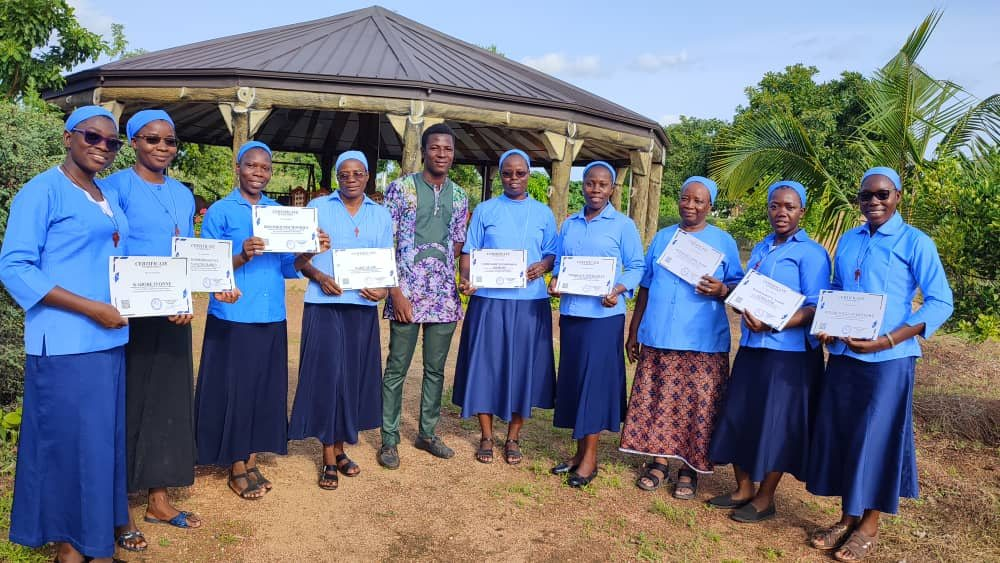
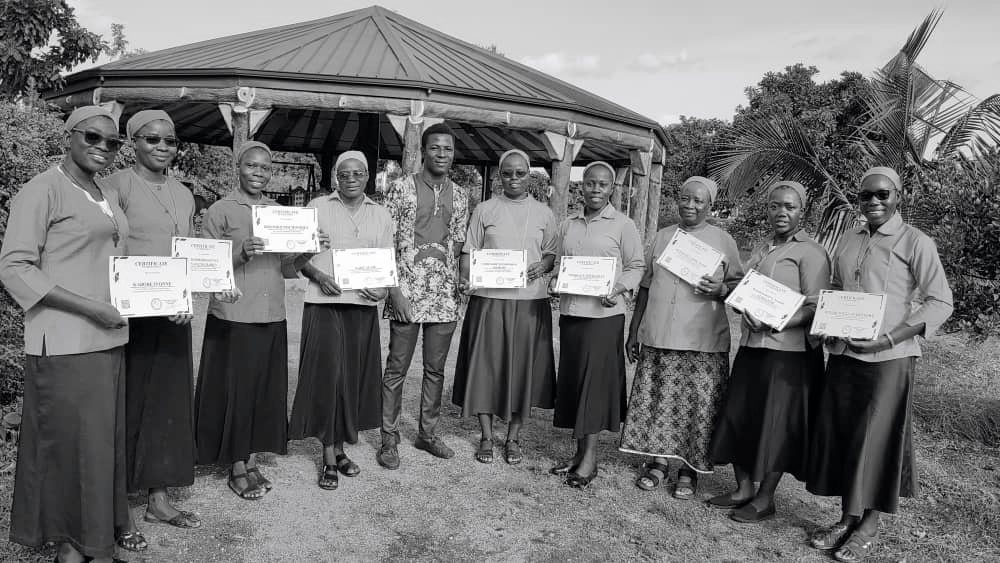
Replace Profil gallery with the new monochrome photos, center faces
Swapped all 8 gallery images for the newly uploaded black-and-white
versions of the same events, reusing the existing filenames/CSS classes
so index.html needed no changes.

- Solo portraits (JNC, desk/laptop, graduation) are now cropped so the
  face sits centered in the 4:3 thumbnail, instead of relying on
  CSS background-position guesswork.
- The Hackathon Afrique award photo again had "OUAGADOUGOU" printed on
  the ceremonial check; cropped it the same way as before to drop that
  line while keeping both people and the trophy.
- Removed the now-unneeded `background-position: top center` overrides
  since centering is baked into the crop itself.
- Re-saved every image through Pillow (drops any embedded metadata) and
  removed the raw uploaded source files from the repo.

diff --git a/css/style.css b/css/style.css
@@ -355,9 +355,9 @@ svg { display: block; }
 .gi-evenement-h2p          { background-image: url("../assets/profil-evenement-h2p.jpg"); }
 .gi-portrait-jnc           { background-image: url("../assets/profil-portrait-jnc.jpg"); }
 .gi-formation-certificats  { background-image: url("../assets/profil-formation-certificats.jpg"); }
-.gi-portrait-laptop        { background-image: url("../assets/profil-portrait-laptop.jpg"); background-position: top center; }
+.gi-portrait-laptop        { background-image: url("../assets/profil-portrait-laptop.jpg"); }
 .gi-prix-jnc-ceremonie     { background-image: url("../assets/profil-prix-jnc-ceremonie.jpg"); }
-.gi-remise-diplome         { background-image: url("../assets/profil-remise-diplome.jpg"); background-position: top center; }
+.gi-remise-diplome         { background-image: url("../assets/profil-remise-diplome.jpg"); }
 
 @media (max-width: 520px) { .about-gallery { grid-template-columns: repeat(2, 1fr); } }
 
